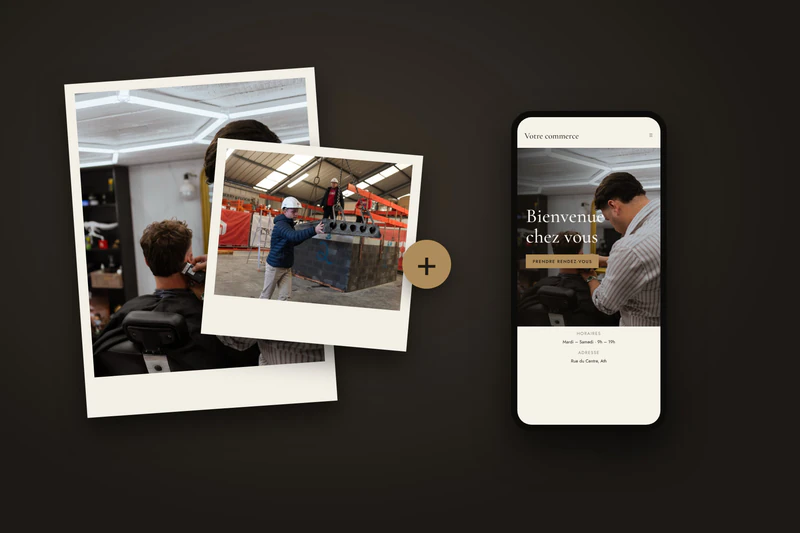
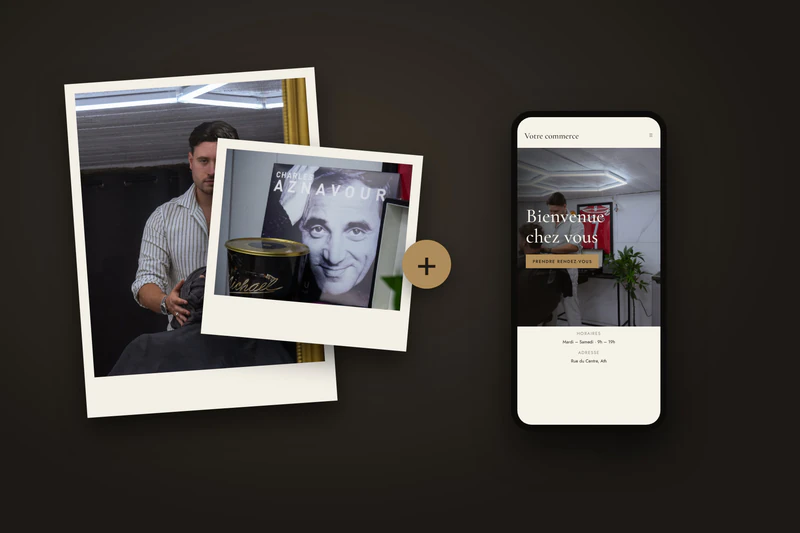
Commerces : photos variées du salon de barbier, plus la même partout
10 photos de la séance « Salon de Massimo » (images/commerces/) : portrait
du barbier, décor, gestes en gros plan, vue d'ensemble. Chaque case
commerce a maintenant sa propre photo (formule, étapes, galerie, À propos,
contact), avec une bande de photos côté commerces sur la page À propos.
Les exemples de site vitrine utilisent la vue d'ensemble du salon. Une
photo seule dans un « texte + photos » garde ses proportions.

Claude-Session: https://claude.ai/code/session_015giPvzjbLBwrRAWPMon1FY

Changed region(s): [[0.0938, 0.1201, 0.5312, 0.7205], [0.625, 0.2702, 0.8438, 0.6304]]

diff --git a/a-propos.html b/a-propos.html
@@ -74,19 +74,20 @@
 <p>Je suis Nicolas, photographe indépendant basé à Ath. Pour les commerces et les entreprises, je réalise des photos qui montrent votre lieu, votre équipe et votre savoir-faire.</p>
 <p>Des photos prêtes pour votre fiche Google, vos réseaux et votre site — et si vous n'avez pas encore de site, je peux aussi vous en créer un.</p>
 <img src="images/nicolas-leveugle-portrait.jpg" alt="Nicolas Leveugle, photographe à Ath" width="1320" height="1650" loading="lazy" />
-<img src="images/portfolio/entreprises/img2.jpg" alt="Réunion sur un chantier" width="1800" height="1199" loading="lazy" />
+<img src="images/commerces/salon-vue-ensemble.jpg" alt="Vue d'ensemble du salon de barbier, sous ses néons hexagonaux" width="2600" height="1733" loading="lazy" />
 <p>Ma façon de travailler</p>
 <h2>Des photos qui vous ressemblent</h2>
 <p>Je viens sur place, au moment qui vous arrange, et je m'adapte à votre activité. On prépare ensemble la liste des photos utiles : vitrine, équipe, produits, ambiance.</p>
 <p>Le résultat : des photos naturelles, qui donnent envie de pousser la porte.</p>
-<img src="images/portfolio/entreprises/img1.jpg" alt="Séance chez un barbier" width="1200" height="1800" loading="lazy" />
-<img src="images/portfolio/entreprises/img3.jpg" alt="Manutention en entrepôt" width="1800" height="1199" loading="lazy" />
+<img src="images/commerces/barbier-portrait-miroir.jpg" alt="Portrait du barbier dans son salon, reflété dans le miroir" width="1733" height="2600" loading="lazy" />
+<img src="images/commerces/outils-miroir.jpg" alt="Les outils du barbier posés devant un miroir doré" width="1733" height="2600" loading="lazy" />
 <p>Photos + site vitrine</p>
 <h2>Votre commerce, en ligne</h2>
 <p>Vous n'avez pas encore de site ? Je crée des sites vitrines simples et efficaces, avec vos photos, vos horaires et vos coordonnées.</p>
 <p>Je vous prépare d'abord une maquette gratuite et sans engagement.</p>
 <p><a href="services.html?pour=commerces">Voir les offres commerces</a></p>
-<img src="images/portfolio/entreprises/img4.jpg" alt="Équipe sur un chantier" width="1800" height="1199" loading="lazy" />
+<img src="images/formules/site-vitrine.jpg" alt="Exemple de site vitrine, sur ordinateur et sur téléphone" width="1800" height="1200" loading="lazy" />
+<img src="images/commerces/coupe-ciseaux.jpg" alt="Coupe aux ciseaux, en gros plan" width="1733" height="2600" loading="lazy" /><img src="images/portfolio/entreprises/img2.jpg" alt="Réunion sur un chantier" width="1800" height="1199" loading="lazy" /><img src="images/commerces/salon-decor-vinyle.jpg" alt="Détail du salon : un vinyle d'Aznavour et une platine" width="1733" height="2600" loading="lazy" /><img src="images/commerces/coupe-client-tatoue.jpg" alt="Le barbier prépare un client assis dans le salon" width="1733" height="2600" loading="lazy" /><img src="images/portfolio/entreprises/img3.jpg" alt="Manutention en entrepôt" width="1800" height="1199" loading="lazy" /><img src="images/commerces/rasage-coupe-chou.jpg" alt="Rasage au coupe-chou, en gros plan" width="1733" height="2600" loading="lazy" /><img src="images/commerces/salon-trophees.jpg" alt="Détail du salon : figurines et trophée sur une étagère" width="1733" height="2600" loading="lazy" /><img src="images/portfolio/entreprises/img4.jpg" alt="Équipe sur un chantier" width="1800" height="1199" loading="lazy" /><img src="images/commerces/serviette-chaude.jpg" alt="Le barbier pose une serviette chaude sur un client" width="1733" height="2600" loading="lazy" /><img src="images/commerces/barbier-sourire-client.jpg" alt="Le barbier sourit en taillant la barbe d'un client" width="1733" height="2600" loading="lazy" />
 <h2>Parlons de votre commerce</h2>
 <p>Dites-moi ce dont vous avez besoin : je vous réponds sous 48h.</p>
 <p><a href="contact.html">Me contacter</a></p>

diff --git a/css/style.css b/css/style.css
@@ -1587,6 +1587,11 @@ html[data-univers="commerces"] .univers-switch [data-univers="commerces"]::after
 
 .texte-duo-photos.nb-1 .duo-photo-1 {
   width: 100%;
+  aspect-ratio: auto;
+}
+
+.texte-duo-photos.nb-1 .duo-photo-1 img {
+  height: auto;
 }
 
 .photos-a-gauche .duo-photo-1 {
